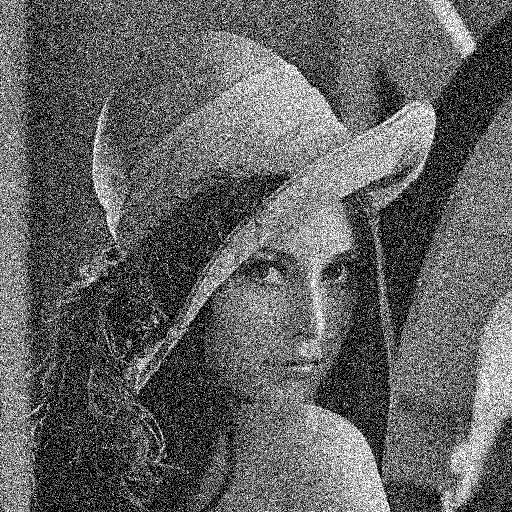
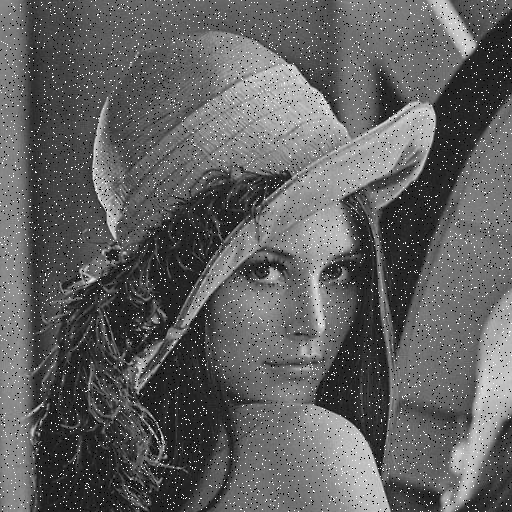
Correções no Average

diff --git a/Tutorial 1/main_smoothfilters.m b/Tutorial 1/main_smoothfilters.m
@@ -13,9 +13,8 @@ function [output,output1] = main_smoothfilters(imageGreyScale,typeOfNoise,noiseA
         noiseImage = noiseImage + sqrt(noiseArg)*randn(size(noiseImage)) + p2;
     end
 
-    smoothImage = noiseImage;
+    smoothImage = im2double(noiseImage);
     if (filteringDomain == "spatial")
-
         matrix = ones(a);
         if (typeOfSmooth == "average")
 
